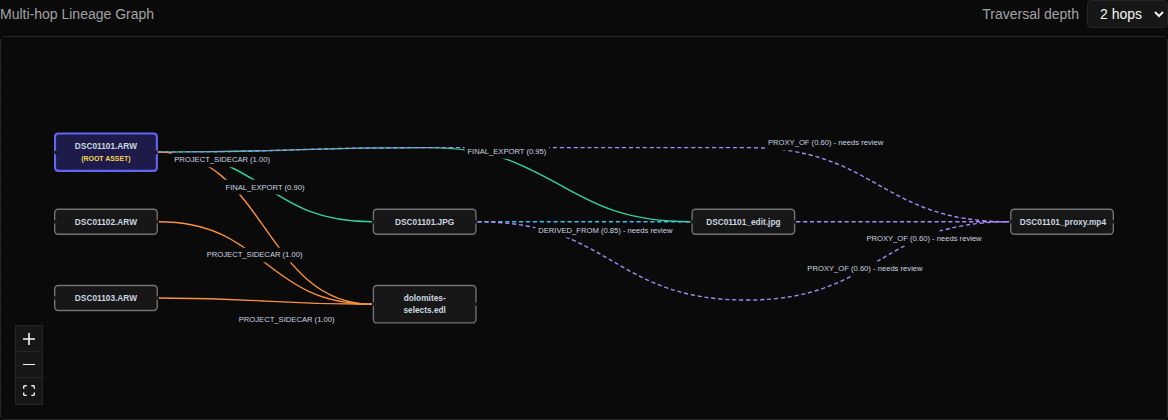
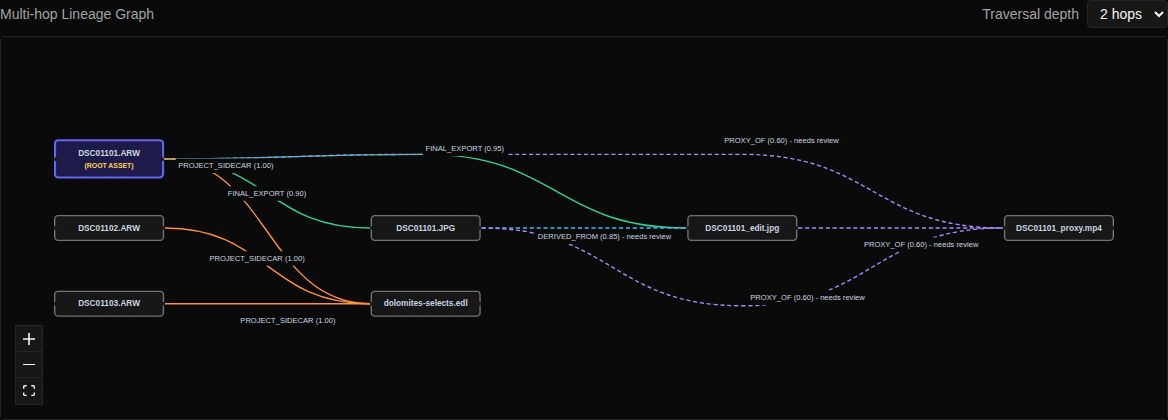
fix(web): address #602 review: parallel routes, label anchor, pinned node width
- Edges on one source/target pair (different relationship types) now share a
  route, so one hid the other's stroke; nudge each routed copy 8px apart.
- Replace the property test that could not fail (slot ys are distinct by
  construction) with one that samples the drawn curve against node boxes.
  It found that #598's no-node-crossing guarantee only held for nodes about
  the assumed 160px wide (74 crossings over 150 random DAGs at 260px, 91 with
  shared slots), so lineage nodes now have a fixed 160px width with wrapping
  names, making the assumption true. The test reads the width from the nodes.
- Anchor a routed edge's label early on its last hop. Over 300 random DAGs,
  labels over nodes 306 -> 254 and label/label overlap unchanged (329); a
  target-leaning range was worse (614). Update labelSpread's comment.

Claude-Session: https://claude.ai/code/session_01YT45bsDB4fuLrcMKgwwJBG

diff --git a/web/src/components/AssetGraphCanvas.tsx b/web/src/components/AssetGraphCanvas.tsx
@@ -13,10 +13,16 @@ import LineageEdge from "./LineageEdge";
 const HORIZONTAL_HANDLES = { sourcePosition: Position.Right, targetPosition: Position.Left } as const;
 // Wide enough that a label sits between two columns instead of on a node.
 const LEVEL_GAP_X = 460;
-// Approximate centre of a node from its top-left position (node size is
-// content-driven). A waypoint only has to land inside the column it crosses and
-// level with its row, so an estimate is enough.
-const NODE_CENTRE = { x: 80, y: 22 };
+// Lineage nodes have a fixed width, so a routed edge's waypoints and the
+// clearance between a column's nodes and its route slots are computed for the
+// real boxes (a content-sized node would make that a guess). Long names wrap.
+const NODE_WIDTH = 160;
+// Centre of a node from its top-left position. The height is content-driven
+// (names wrap), so y is an estimate; a waypoint only has to land level with its
+// row, and slots sit a full row from any node.
+const NODE_CENTRE = { x: NODE_WIDTH / 2, y: 22 };
+// Vertical offset between routed edges that join the same pair of nodes.
+const PARALLEL_NUDGE_Y = 8;
 
 // Module-level so React Flow sees a stable reference across renders.
 const edgeTypes = { lineage: LineageEdge };
@@ -138,6 +144,8 @@ export function buildLineageFlow(rootId: number, lineage: LineageResponse): { no
         ),
       },
       style: {
+        width: NODE_WIDTH,
+        overflowWrap: "anywhere",
         background: isRoot ? "var(--graph-node-bg-root)" : colors.bg,
         color: "var(--graph-text)",
         border: isRoot ? "3px solid var(--color-brand)" : `2px solid ${colors.border}`,
@@ -150,19 +158,30 @@ export function buildLineageFlow(rootId: number, lineage: LineageResponse): { no
 
   // Edges into one node converge on the same handle; fan their labels out.
   const spread = spreadLabels(lineage.edges, (e) => String(e.targetNodeId));
-  const edges: LineageFlowEdge[] = lineage.edges.map((e, i) => ({
-    id: `e-${e.id}`,
-    type: "lineage",
-    source: String(e.sourceNodeId),
-    target: String(e.targetNodeId),
-    ...edgeVisual(e, 2),
-    data: {
-      ...spread.get(e)!,
-      // An edge spanning several columns bends through free slots in the ones
-      // between, rather than running behind the nodes there.
-      waypoints: routes.get(i)?.map((s) => ({ x: s.rank * LEVEL_GAP_X + NODE_CENTRE.x, y: s.y + NODE_CENTRE.y })),
-    },
-  }));
+  // Edges on one source/target pair (different relationship types) share a
+  // route; nudge each routed copy apart so none is drawn exactly over another.
+  const pairSize = new Map<string, number>();
+  const pairSeen = new Map<string, number>();
+  const pairKey = (e: { sourceNodeId: number; targetNodeId: number }) => `${e.sourceNodeId}>${e.targetNodeId}`;
+  lineage.edges.forEach((e) => pairSize.set(pairKey(e), (pairSize.get(pairKey(e)) ?? 0) + 1));
+  const edges: LineageFlowEdge[] = lineage.edges.map((e, i) => {
+    const seen = pairSeen.get(pairKey(e)) ?? 0;
+    pairSeen.set(pairKey(e), seen + 1);
+    const nudge = (seen - (pairSize.get(pairKey(e))! - 1) / 2) * PARALLEL_NUDGE_Y;
+    return {
+      id: `e-${e.id}`,
+      type: "lineage",
+      source: String(e.sourceNodeId),
+      target: String(e.targetNodeId),
+      ...edgeVisual(e, 2),
+      data: {
+        ...spread.get(e)!,
+        // An edge spanning several columns bends through free slots in the ones
+        // between, rather than running behind the nodes there.
+        waypoints: routes.get(i)?.map((s) => ({ x: s.rank * LEVEL_GAP_X + NODE_CENTRE.x, y: s.y + NODE_CENTRE.y + nudge })),
+      },
+    };
+  });
 
   return { nodes, edges, isEmpty: false };
 }

diff --git a/web/src/components/AssetGraphCanvas.test.tsx b/web/src/components/AssetGraphCanvas.test.tsx
@@ -2,6 +2,7 @@ import { describe, expect, it } from "vitest";
 import { render, screen } from "@testing-library/react";
 import { MemoryRouter } from "react-router";
 import AssetGraphCanvas, { buildLineageFlow, buildOneHopFlow } from "./AssetGraphCanvas";
+import { pointAlong } from "../lib/edgeStyle";
 import { labelSpread } from "../lib/edgeStyle";
 import type { Edge } from "../api/types";
 
@@ -216,6 +217,60 @@ describe("review-state edge styling", () => {
       expect(shared.find((x) => x.id === "e-13")!.data!.waypoints![0]).toEqual(shared.find((x) => x.id === "e-14")!.data!.waypoints![0]);
       // Edges between adjacent columns are not routed.
       expect(edges.find((e) => e.id === "e-10")!.data!.waypoints).toBeUndefined();
+    });
+
+    it("nudges routed edges on one source/target pair apart so none hides another", () => {
+      const { edges } = buildLineageFlow(1, {
+        rootId: 1,
+        // eslint-disable-next-line @typescript-eslint/no-explicit-any
+        nodes: [1, 2, 3, 4].map(node) as any,
+        edges: [lineageEdge(10, 1, 2), lineageEdge(11, 2, 3), lineageEdge(12, 3, 4), lineageEdge(13, 1, 4), { ...lineageEdge(14, 1, 4), relationshipType: "DERIVED_FROM" }],
+      });
+      const a = edges.find((e) => e.id === "e-13")!.data!.waypoints!;
+      const b = edges.find((e) => e.id === "e-14")!.data!.waypoints!;
+      expect(a.map((p) => p.x)).toEqual(b.map((p) => p.x));
+      a.forEach((p, i) => expect(Math.abs(p.y - b[i].y)).toBeGreaterThan(4));
+    });
+
+    it("never draws a routed edge through a node that is not one of its endpoints, over random DAGs", () => {
+      // The #598 guarantee, checked on the drawn curve (not just slot heights):
+      // sample the path through source handle, waypoints and target handle and
+      // keep it out of every other node's box. Boxes use the nodes' own width
+      // and a height allowing three wrapped lines.
+      let seed = 4242;
+      const rand = () => (seed = (seed * 1664525 + 1013904223) % 4294967296) / 4294967296;
+      const boxHeight = 70;
+      const violations: string[] = [];
+      for (let g = 0; g < 150; g++) {
+        const n = 4 + Math.floor(rand() * 9);
+        const raw: Edge[] = [];
+        let id = 1;
+        for (let a = 1; a <= n; a++) for (let b = a + 1; b <= n; b++) if (rand() < 0.3) raw.push(lineageEdge(id++, a, b));
+        if (raw.length === 0) continue;
+        const { nodes, edges } = buildLineageFlow(1, {
+          rootId: 1,
+          // eslint-disable-next-line @typescript-eslint/no-explicit-any
+          nodes: Array.from({ length: n }, (_, i) => node(i + 1)) as any,
+          edges: raw,
+        });
+        const width = Number(nodes[0].style!.width);
+        const pos = new Map(nodes.map((nd) => [nd.id, nd.position]));
+        for (const e of edges) {
+          const s = pos.get(e.source)!;
+          const t = pos.get(e.target)!;
+          const pts = [{ x: s.x + width, y: s.y + 22 }, ...(e.data?.waypoints ?? []), { x: t.x, y: t.y + 22 }];
+          for (let k = 0; k <= 100; k++) {
+            const p = pointAlong(pts, k / 100);
+            for (const nd of nodes) {
+              if (nd.id === e.source || nd.id === e.target) continue;
+              if (p.x > nd.position.x && p.x < nd.position.x + width && p.y > nd.position.y && p.y < nd.position.y + boxHeight) {
+                violations.push(`graph ${g}: edge ${e.id} enters node ${nd.id}`);
+              }
+            }
+          }
+        }
+      }
+      expect(violations).toEqual([]);
     });
 
     it("is deterministic for the same input and uses the custom edge type", () => {

diff --git a/web/src/lib/edgeStyle.ts b/web/src/lib/edgeStyle.ts
@@ -60,7 +60,9 @@ const SPREAD_DY = 24;
  * edge keeps the midpoint. Siblings are fanned out in both axes: the t range
  * leans towards the source end, where converging paths are still apart, and
  * the vertical step (a little over one label height) keeps labels from
- * overlapping even when the siblings' sources share a y.
+ * overlapping even when the siblings' sources share a y. (For a routed edge `t`
+ * is re-ranged onto its last hop by `labelAnchor`; the vertical step is what
+ * keeps its siblings apart.)
  */
 export function labelSpread(index: number, count: number): LineageEdgeData {
   if (count <= 1) return { labelT: 0.5, labelDy: 0 };
@@ -124,13 +126,22 @@ export function pointAlong(points: Point[], t: number): Point {
   return first;
 }
 
+// A routed edge's label sits in the early part of its last hop, close to the
+// free slot it leaves, which keeps it off the nodes in the target's column. On
+// 300 random DAGs that put fewer labels over nodes than the midpoint (254 vs
+// 306) and far fewer than the late end (401), with no more label/label overlap.
+const ROUTED_T_FROM = 0.15;
+const ROUTED_T_SPAN = 0.2;
+
 /**
  * Where an edge's label goes. A plain edge labels its whole source->target
- * span. A routed edge's earlier hops are shared with every other edge from the
- * same source, so its label goes on the last hop (last waypoint -> target),
- * the only stretch that is its own.
+ * span at `t`. A routed edge's earlier hops are shared with every other edge
+ * from the same source, so its label goes on the last hop (last waypoint ->
+ * target), the only stretch that is its own, with `t` (from `labelSpread`,
+ * 0.3-0.6) re-ranged to the early part of that hop.
  */
 export function labelAnchor(source: Point, waypoints: Point[], target: Point, t: number): Point {
-  const from = waypoints.length > 0 ? waypoints[waypoints.length - 1] : source;
-  return pointAlong([from, target], t);
+  if (waypoints.length === 0) return pointAlong([source, target], t);
+  const spread = (Math.min(SPREAD_T_TO, Math.max(SPREAD_T_FROM, t)) - SPREAD_T_FROM) / (SPREAD_T_TO - SPREAD_T_FROM);
+  return pointAlong([waypoints[waypoints.length - 1], target], ROUTED_T_FROM + ROUTED_T_SPAN * spread);
 }

diff --git a/web/src/lib/lineageLayout.test.ts b/web/src/lib/lineageLayout.test.ts
@@ -110,22 +110,4 @@ describe("shared route slots (#601)", () => {
     // Node-only, every column has one row; unshared slots made it 10 in the worst column.
     expect(Math.max(...[...perRank.values()].map((ys) => ys.size))).toBeLessThanOrEqual(2);
   });
-
-  it("never puts a route slot on a real node, over random DAGs", () => {
-    let seed = 12345;
-    const rand = () => (seed = (seed * 1664525 + 1013904223) % 4294967296) / 4294967296;
-    for (let g = 0; g < 200; g++) {
-      const n = 4 + Math.floor(rand() * 10);
-      const ids = Array.from({ length: n }, (_, i) => i + 1);
-      const edges = [];
-      for (let a = 1; a <= n; a++) for (let b = a + 1; b <= n; b++) if (rand() < 0.3) edges.push(e(a, b));
-      const ranks = lineageRanks(ids, edges);
-      const { rows, routes } = lineageRows(ranks, edges);
-      routes.forEach((slots) =>
-        slots.forEach((s) => {
-          ids.filter((id) => ranks.get(id) === s.rank).forEach((id) => expect(rows.get(id)).not.toBe(s.y));
-        }),
-      );
-    }
-  });
 });

diff --git a/web/src/lib/edgeStyle.test.ts b/web/src/lib/edgeStyle.test.ts
@@ -64,10 +64,19 @@ describe("labelAnchor (#601)", () => {
     expect(labelAnchor(source, [], target, 0.5)).toEqual(pointAlong([source, target], 0.5));
   });
 
+  it("anchors a routed edge's label early on its last hop, from the spread t", () => {
+    const wp = [{ x: 460, y: 22 }];
+    const target = { x: 920, y: 22 };
+    const first = labelAnchor(source, wp, target, 0.3);
+    const last = labelAnchor(source, wp, target, 0.6);
+    expect(first.x).toBeCloseTo(460 + 0.15 * 460);
+    expect(last.x).toBeCloseTo(460 + 0.35 * 460);
+  });
+
   it("keeps edges that share a route apart by labelling each one's own last hop", () => {
     const shared = [{ x: 460, y: 22 }];
     const a = labelAnchor(source, shared, { x: 920, y: -88 }, 0.5);
     const b = labelAnchor(source, shared, { x: 920, y: 132 }, 0.5);
-    expect(Math.abs(a.y - b.y)).toBeGreaterThan(50);
+    expect(Math.abs(a.y - b.y)).toBeGreaterThan(25); // more than a label is tall
   });
 });
